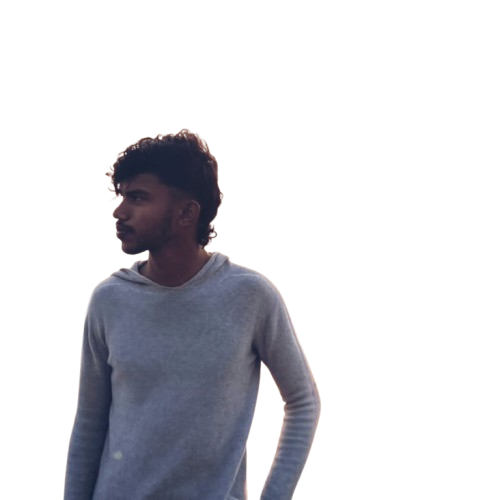
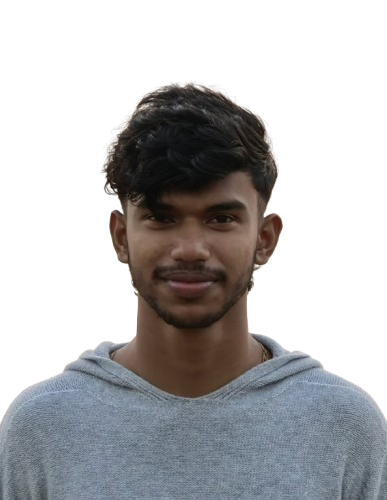
feat: update sharon.png image and hero layout

diff --git a/index.html b/index.html
@@ -388,198 +388,71 @@
       flex-direction: column;
       justify-content: space-between;
     }
-    /* ══════════════════════════════════════
-       INSTAGRAM-STYLE 3D POP-OUT STAGE
-    ══════════════════════════════════════ */
-    .popout-stage {
+    .hero-photo-wrapper {
       flex-shrink: 0;
-      position: relative;
-      width: 280px;
-      height: 360px;
       align-self: flex-end;
       display: flex;
-      justify-content: center;
-      align-items: flex-end;
-      margin-top: -20px;
+      flex-direction: column;
+      align-items: center;
     }
-
-    /* Background Post Card (The feed frame the subject pops out of) */
-    .popout-card {
-      position: absolute;
-      bottom: 0;
-      left: 12px;
-      right: 12px;
-      height: 235px;
-      background: #0d0d12;
-      border: 2px solid var(--border-color);
-      box-shadow: 6px 6px 0px #0e0e0e;
+    .hero-photo-frame {
+      position: relative;
+      background: linear-gradient(180deg, #181822 0%, #0e0e14 100%);
+      border: 3px solid var(--border-color);
+      box-shadow: 6px 6px 0px #ff4b00;
       overflow: hidden;
       display: flex;
       flex-direction: column;
-      z-index: 1;
-      transition: border-color 0.25s ease, box-shadow 0.25s ease;
+      align-items: center;
+      transition: transform 0.15s ease, border-color 0.15s ease, box-shadow 0.15s ease;
     }
-    .popout-stage:hover .popout-card {
+    .hero-photo-frame:hover {
       border-color: var(--orange);
-      box-shadow: 6px 6px 0px #ff4b00;
+      transform: translate(-3px, -3px);
+      box-shadow: 8px 8px 0px #ff4b00;
     }
-
-    .popout-card-bar {
-      background: #15151c;
-      border-bottom: 1px solid var(--border-color);
-      padding: 8px 12px;
-      display: flex;
-      justify-content: space-between;
-      align-items: center;
-      font-size: 0.7rem;
-      font-weight: 800;
-      font-family: var(--font-mono);
-      letter-spacing: 0.8px;
-    }
-    .popout-card-user {
-      display: flex;
-      align-items: center;
-      gap: 6px;
-      color: var(--orange);
-    }
-    .popout-card-avatar {
-      display: inline-flex;
-      align-items: center;
-      justify-content: center;
-      width: 18px;
-      height: 18px;
-      background: var(--orange);
-      color: #000;
-      font-size: 0.6rem;
-      font-weight: 900;
-    }
-    .popout-card-dots {
-      display: flex;
-      gap: 3px;
-    }
-    .popout-card-dots span {
-      width: 4px;
-      height: 4px;
-      background: #62605b;
-      display: inline-block;
-    }
-
-    .popout-card-inner {
-      flex: 1;
-      position: relative;
-      background: 
-        linear-gradient(180deg, rgba(20, 20, 28, 0.7) 0%, rgba(10, 10, 15, 0.95) 100%),
-        radial-gradient(circle at 50% 40%, rgba(255, 75, 0, 0.18) 0%, transparent 70%);
-      overflow: hidden;
-    }
-    .popout-grid-lines {
-      position: absolute;
-      inset: 0;
-      background-image: 
-        linear-gradient(rgba(255, 255, 255, 0.03) 1px, transparent 1px),
-        linear-gradient(90deg, rgba(255, 255, 255, 0.03) 1px, transparent 1px);
-      background-size: 16px 16px;
-      opacity: 0.7;
-    }
-    .popout-halo {
-      position: absolute;
-      top: 15%;
-      left: 50%;
-      transform: translateX(-50%);
-      width: 140px;
-      height: 140px;
-      border-radius: 50%;
-      background: radial-gradient(circle, rgba(255, 75, 0, 0.35) 0%, rgba(255, 75, 0, 0.08) 50%, transparent 75%);
-      filter: blur(10px);
-      pointer-events: none;
-    }
-    .popout-corner-tag {
-      position: absolute;
-      bottom: 6px;
-      right: 8px;
-      font-size: 0.58rem;
-      font-family: var(--font-mono);
-      color: #706d66;
-      font-weight: 800;
-      letter-spacing: 1px;
-    }
-
-    /* THE CUTOUT SUBJECT: POPS UP & BREAKS OUT OF THE CARD */
-    .popout-subject-img {
-      position: relative;
-      z-index: 5;
-      width: 295px;
-      max-width: none;
-      height: 350px;
-      object-fit: contain;
-      object-position: bottom center;
+    .hero-photo-img {
+      width: 250px;
+      height: 310px;
+      object-fit: cover;
+      object-position: top center;
       display: block;
-      margin-bottom: 2px;
-      filter: 
-        drop-shadow(-8px 10px 0px rgba(0, 0, 0, 0.85))
-        drop-shadow(0 14px 22px rgba(255, 75, 0, 0.45));
-      transform: perspective(800px) rotateY(-4deg) rotateX(1deg);
-      transform-origin: bottom center;
-      transition: transform 0.3s cubic-bezier(0.2, 0.8, 0.2, 1), filter 0.3s ease;
-      cursor: pointer;
-      pointer-events: auto;
+      filter: contrast(1.05);
+      transition: transform 0.25s ease;
     }
-    .popout-stage:hover .popout-subject-img {
-      transform: perspective(800px) rotateY(0deg) rotateX(0deg) translateY(-10px) scale(1.05);
-      filter: 
-        drop-shadow(-12px 14px 0px #ff4b00)
-        drop-shadow(0 20px 30px rgba(0, 0, 0, 0.95))
-        drop-shadow(0 0 25px rgba(255, 75, 0, 0.6));
+    .hero-photo-frame:hover .hero-photo-img {
+      transform: scale(1.04);
     }
-
-    /* Floating bottom identity pill */
-    .popout-bottom-badge {
-      position: absolute;
-      bottom: -10px;
-      z-index: 8;
+    .hero-photo-tag {
+      width: 100%;
       background: var(--orange);
       color: #000000;
-      font-family: var(--font-mono);
-      font-size: 0.64rem;
+      font-size: 0.65rem;
       font-weight: 900;
+      font-family: var(--font-mono);
       letter-spacing: 1.5px;
-      text-transform: uppercase;
-      padding: 4px 12px;
-      border: 2px solid #000000;
-      box-shadow: 4px 4px 0px #000000;
-      white-space: nowrap;
-      display: flex;
-      align-items: center;
-      gap: 6px;
-      transition: transform 0.2s ease, box-shadow 0.2s ease;
+      text-align: center;
+      padding: 4px 8px;
+      border-top: 2px solid #000000;
     }
-    .popout-stage:hover .popout-bottom-badge {
-      transform: translateY(-2px);
-      box-shadow: 6px 6px 0px #000000;
-    }
-
     @media (max-width: 1200px) {
-      .popout-stage {
-        width: 250px;
-        height: 320px;
-      }
-      .popout-card {
-        height: 210px;
-      }
-      .popout-subject-img {
-        width: 260px;
-        height: 310px;
+      .hero-photo-img {
+        width: 210px;
+        height: 270px;
       }
     }
     @media (max-width: 820px) {
       .hero-layout {
         flex-direction: column-reverse;
-        align-items: center;
-        gap: 30px;
+        align-items: flex-start;
+        gap: 24px;
       }
-      .popout-stage {
+      .hero-photo-wrapper {
         align-self: center;
-        margin-top: 0;
+      }
+      .hero-photo-img {
+        width: 230px;
+        height: 280px;
       }
     }
     .badge-row {
@@ -1552,32 +1425,11 @@
             </div>
           </div>
 
-          <!-- SHARON BABU 3D POP-OUT EFFECT (INSTAGRAM FEED BREAKOUT) -->
-          <div class="popout-stage">
-            <!-- BACKGROUND FEED CARD THAT HE POPS OUT OF -->
-            <div class="popout-card">
-              <div class="popout-card-bar">
-                <div class="popout-card-user">
-                  <span class="popout-card-avatar">0x</span>
-                  <span>@0xSHARON</span>
-                </div>
-                <div class="popout-card-dots">
-                  <span></span><span></span><span></span>
-                </div>
-              </div>
-              <div class="popout-card-inner">
-                <div class="popout-halo"></div>
-                <div class="popout-grid-lines"></div>
-                <div class="popout-corner-tag">[POP-OUT]</div>
-              </div>
-            </div>
-
-            <!-- CUTOUT SUBJECT: POPS UP & OUT OF THE CARD -->
-            <img src="sharon.png" alt="Sharon Babu Thottian" class="popout-subject-img">
-
-            <!-- BOTTOM STATUS STRIP -->
-            <div class="popout-bottom-badge">
-              <span class="live-dot"></span> SHARON BABU // 0xSHARON
+          <!-- SHARON BABU PORTRAIT (PHOTO 2) -->
+          <div class="hero-photo-wrapper">
+            <div class="hero-photo-frame">
+              <img src="sharon.png" alt="Sharon Babu Thottian" class="hero-photo-img">
+              <div class="hero-photo-tag">// SHARON BABU //</div>
             </div>
           </div>
         </div>
